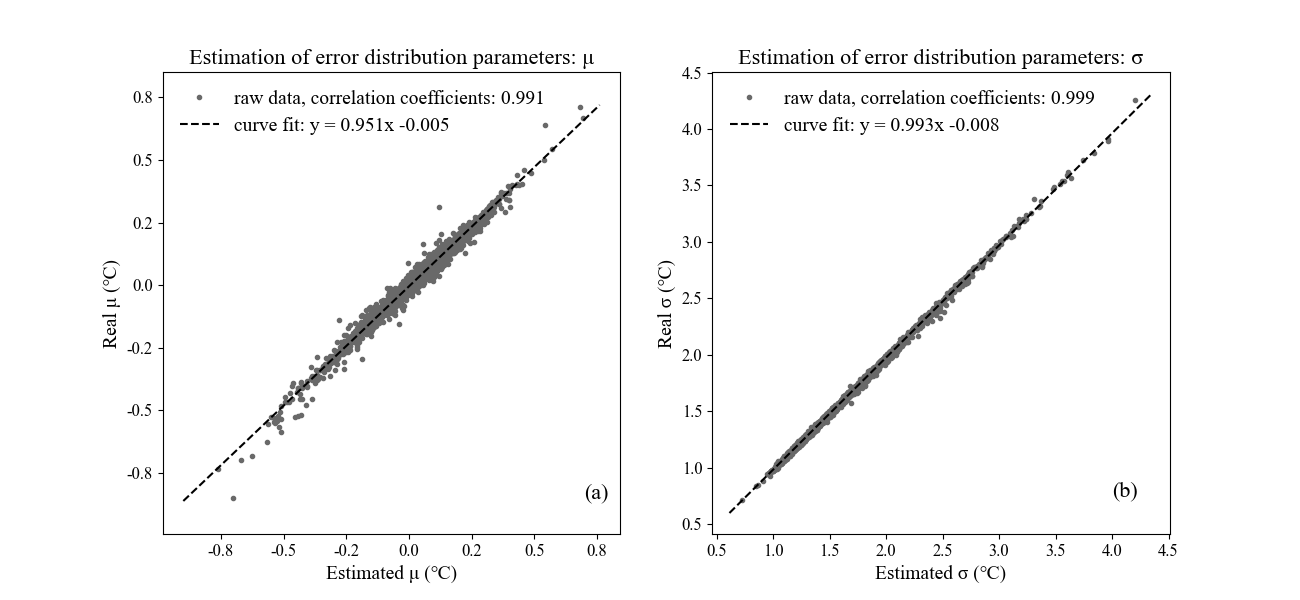
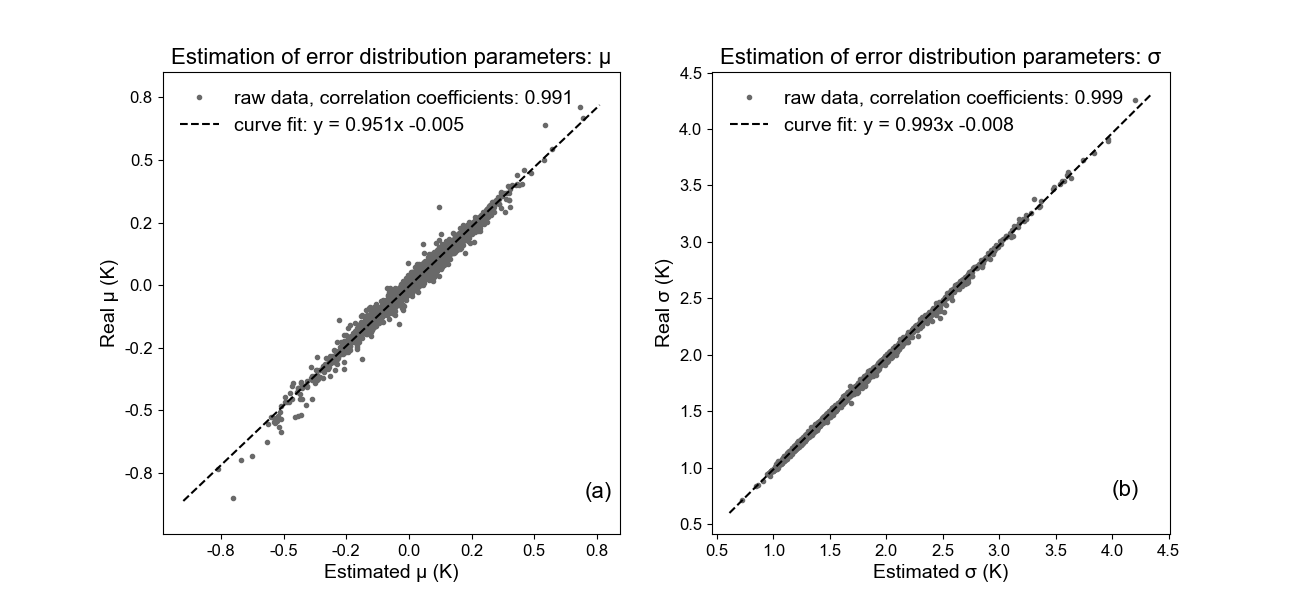
update figure font to arial

diff --git a/N03.py b/N03.py
@@ -28,10 +28,10 @@ from matplotlib import pyplot as plt
 from matplotlib.ticker import MultipleLocator, FormatStrFormatter, MultipleLocator, AutoMinorLocator
 from matplotlib.font_manager import FontProperties
 
-lgd_font = FontProperties(family='Times New Roman', size=14)
-title_font = {'fontname': 'Times New Roman', 'fontsize': 16}
-axis_font = {'fontname': 'Times New Roman', 'fontsize': 14}
-tick_font = {'fontname': 'Times New Roman', 'fontsize': 12}
+lgd_font = FontProperties(family='Arial', size=14)
+title_font = {'fontname': 'Arial', 'fontsize': 16}
+axis_font = {'fontname': 'Arial', 'fontsize': 14}
+tick_font = {'fontname': 'Arial', 'fontsize': 12}
 
 def bld_sigma(w1, w2, mae1, mae2, cc):
     a1 = np.sqrt(np.pi/2)
@@ -204,15 +204,15 @@ def fig_N03(st_id, fstH):
     fig = plt.figure(figsize=(12, 12))
     ax1 = fig.add_subplot(2, 1, 1)
     x = np.arange(3, 73, 3)
-    ax1.plot(x, maes[:, 0], 'r--', label='ECMWF+JAPAN | w ~ 1/MAE')
-    ax1.plot(x, maes[:, 1], 'b--', label='ECMWF+NCEP+CMA+JAPAN | w ~ 1/MAE')
-    ax1.plot(x, maes[:, 2], 'r-',  label='ECMWF+JAPAN | w see Eq. (16)')
-    ax1.plot(x, maes[:, 3], 'b-',  label='ECMWF+NCEP+CMA+JAPAN | w see Eq. (16)')
+    ax1.plot(x, maes[:, 0], 'g--', label='ECMWF+JAPAN | w ~ 1/MAE')
+    ax1.plot(x, maes[:, 1], 'm--', label='ECMWF+NCEP+CMA+JAPAN | w ~ 1/MAE')
+    ax1.plot(x, maes[:, 2], 'g-',  label='ECMWF+JAPAN | w see Eq. (16)')
+    ax1.plot(x, maes[:, 3], 'm-',  label='ECMWF+NCEP+CMA+JAPAN | w see Eq. (16)')
 
     ax1.legend(prop=lgd_font, framealpha=0)
     ax1.set_title('forecast MAE for different blending algorithm', fontdict=title_font)
     ax1.set_xlabel('forecast lead time (H)', fontdict=axis_font)
-    ax1.set_ylabel('MAE (℃)', fontdict=axis_font)
+    ax1.set_ylabel('MAE (K)', fontdict=axis_font)
     
     ax1.xaxis.set_ticks(np.arange(0, 73, 12))
     ax1.xaxis.set_minor_locator(AutoMinorLocator(4))
@@ -224,7 +224,7 @@ def fig_N03(st_id, fstH):
 
     # fig 03b
     ax2 = fig.add_subplot(2, 1, 2)
-    ax2.plot(w1, y2, 'r-', label='Estimated blending MAE curve')
+    ax2.plot(w1, y2, 'g-', label='Estimated blending MAE curve')
     ax2.plot([0,0], [1.5, bld_mae(0, 1, st_mae_ec, st_mae_jp, st_cc)], 'k--')
     ax2.plot([1,1], [1.5, bld_mae(1, 0, st_mae_ec, st_mae_jp, st_cc)], 'k--')
     ax2.plot(w1_twb, mae_twb, 'k+', label='the traditional method', markersize=14)
@@ -233,7 +233,7 @@ def fig_N03(st_id, fstH):
     ax2.legend(prop=lgd_font, framealpha=0)
     ax2.set_title('Station %d blending MAE' % (st_id), fontdict=title_font)
     ax2.set_xlabel('ECMWF weight', fontdict=axis_font)
-    ax2.set_ylabel('Estimated MAE (℃)', fontdict=axis_font)
+    ax2.set_ylabel('Estimated MAE (K)', fontdict=axis_font)
     
     ax2.xaxis.set_ticks(np.arange(-0.25, 2.01, 0.25))
     ax1.xaxis.set_minor_locator(AutoMinorLocator(5))

diff --git a/N02.py b/N02.py
@@ -31,10 +31,10 @@ from matplotlib.ticker import MultipleLocator, FormatStrFormatter
 from matplotlib.font_manager import FontProperties
 
 
-lgd_font = FontProperties(family='Times New Roman', size=14)
-title_font = {'fontname': 'Times New Roman', 'fontsize': 16}
-axis_font = {'fontname': 'Times New Roman', 'fontsize': 14}
-tick_font = {'fontname': 'Times New Roman', 'fontsize': 12}
+lgd_font = FontProperties(family='Arial', size=14)
+title_font = {'fontname': 'Arial', 'fontsize': 16}
+axis_font = {'fontname': 'Arial', 'fontsize': 14}
+tick_font = {'fontname': 'Arial', 'fontsize': 12}
 
 
 
@@ -94,8 +94,8 @@ def figN02(fn_data):
     ax1.axis('equal')
     ax1.legend(prop=lgd_font, framealpha=0)
     ax1.set_title('ECMWF', fontdict=title_font)
-    ax1.set_xlabel('Estimated MAE (℃)', fontdict=axis_font)
-    ax1.set_ylabel('Real MAE (℃)', fontdict=axis_font)
+    ax1.set_xlabel('Estimated MAE (K)', fontdict=axis_font)
+    ax1.set_ylabel('Real MAE (K)', fontdict=axis_font)
     ax1.set_xticklabels(ax1.get_xticks(), fontdict=tick_font)
     ax1.set_yticklabels(ax1.get_yticks(), fontdict=tick_font)
 
@@ -109,8 +109,8 @@ def figN02(fn_data):
     ax2.axis('equal')
     ax2.legend(prop=lgd_font, framealpha=0)
     ax2.set_title('NCEP-GFS', fontdict=title_font)
-    ax2.set_xlabel('Estimated MAE (℃)', fontdict=axis_font)
-    ax2.set_ylabel('Real MAE (℃)', fontdict=axis_font)
+    ax2.set_xlabel('Estimated MAE (K)', fontdict=axis_font)
+    ax2.set_ylabel('Real MAE (K)', fontdict=axis_font)
     ax2.set_xticklabels(ax2.get_xticks(), fontdict=tick_font)
     ax2.set_yticklabels(ax2.get_yticks(), fontdict=tick_font)
     
@@ -124,8 +124,8 @@ def figN02(fn_data):
     ax3.axis('equal')
     ax3.legend(prop=lgd_font, framealpha=0)
     ax3.set_title('CMA-GFS', fontdict=title_font)
-    ax3.set_xlabel('Estimated MAE (℃)', fontdict=axis_font)
-    ax3.set_ylabel('Real MAE (℃)', fontdict=axis_font)
+    ax3.set_xlabel('Estimated MAE (K)', fontdict=axis_font)
+    ax3.set_ylabel('Real MAE (K)', fontdict=axis_font)
     ax3.set_xticklabels(ax3.get_xticks(), fontdict=tick_font)
     ax3.set_yticklabels(ax3.get_yticks(), fontdict=tick_font)
 
@@ -139,8 +139,8 @@ def figN02(fn_data):
     ax4.axis('equal')
     ax4.legend(prop=lgd_font, framealpha=0)
     ax4.set_title('JAPAN-HR', fontdict=title_font)
-    ax4.set_xlabel('Estimated MAE (℃)', fontdict=axis_font)
-    ax4.set_ylabel('Real MAE (℃)', fontdict=axis_font)
+    ax4.set_xlabel('Estimated MAE (K)', fontdict=axis_font)
+    ax4.set_ylabel('Real MAE (K)', fontdict=axis_font)
     ax4.set_xticklabels(ax4.get_xticks(), fontdict=tick_font)
     ax4.set_yticklabels(ax4.get_yticks(), fontdict=tick_font)
 

diff --git a/N01.py b/N01.py
@@ -29,11 +29,10 @@ from matplotlib import pyplot as plt
 from matplotlib.ticker import MultipleLocator, FormatStrFormatter
 from matplotlib.font_manager import FontProperties
 
-
-lgd_font = FontProperties(family='Times New Roman', size=14)
-title_font = {'fontname': 'Times New Roman', 'fontsize': 16}
-axis_font = {'fontname': 'Times New Roman', 'fontsize': 14}
-tick_font = {'fontname': 'Times New Roman', 'fontsize': 12}
+lgd_font = FontProperties(family='Arial', size=14)
+title_font = {'fontname': 'Arial', 'fontsize': 16}
+axis_font = {'fontname': 'Arial', 'fontsize': 14}
+tick_font = {'fontname': 'Arial', 'fontsize': 12}
 
 
 def prepare(fn_err_ec, fn_err_ncep, fn_err_cma, fn_err_jp, fn_err_bld, fn_output): 
@@ -220,8 +219,8 @@ def figN01(fn_data):
     ax1.axis('equal')
     ax1.legend(prop=lgd_font, framealpha=0)
     ax1.set_title('Estimation of error distribution parameters: μ', fontdict=title_font)
-    ax1.set_xlabel('Estimated μ (℃)', fontdict=axis_font)
-    ax1.set_ylabel('Real μ (℃)', fontdict=axis_font)
+    ax1.set_xlabel('Estimated μ (K)', fontdict=axis_font)
+    ax1.set_ylabel('Real μ (K)', fontdict=axis_font)
     ax1.set_xticklabels(ax1.get_xticks(), fontdict=tick_font)
     ax1.set_yticklabels(ax1.get_yticks(), fontdict=tick_font)
     ax1.xaxis.set_major_formatter(FormatStrFormatter('%.1f'))
@@ -234,8 +233,8 @@ def figN01(fn_data):
     ax2.axis('equal')
     ax2.legend(prop=lgd_font, framealpha=0)
     ax2.set_title('Estimation of error distribution parameters: σ', fontdict=title_font)
-    ax2.set_xlabel('Estimated σ (℃)', fontdict=axis_font)
-    ax2.set_ylabel('Real σ (℃)', fontdict=axis_font)
+    ax2.set_xlabel('Estimated σ (K)', fontdict=axis_font)
+    ax2.set_ylabel('Real σ (K)', fontdict=axis_font)
     ax2.set_xticklabels(ax2.get_xticks(), fontdict=tick_font)
     ax2.set_yticklabels(ax2.get_yticks(), fontdict=tick_font)
     ax2.text(4.0, 0.75, '(b)', fontdict=title_font)
